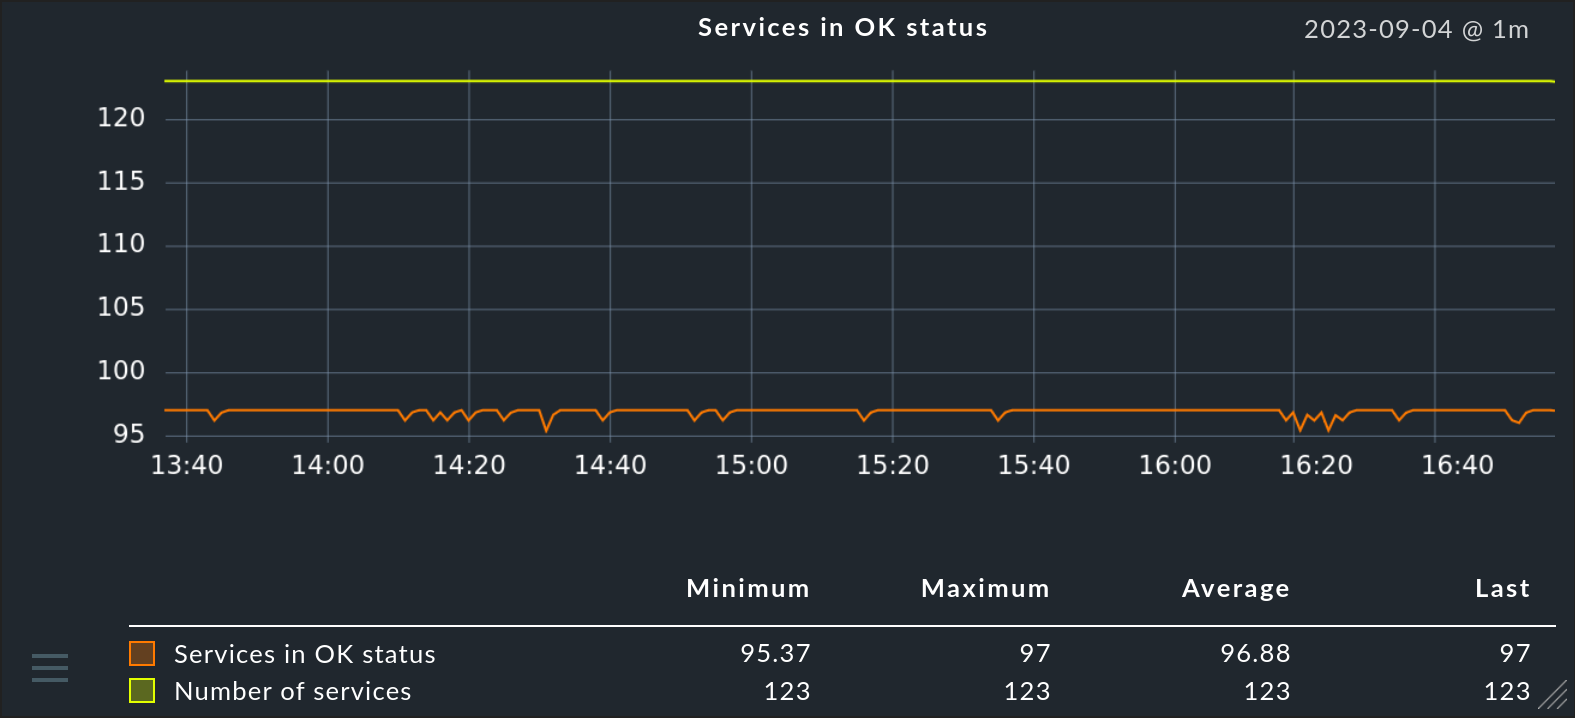
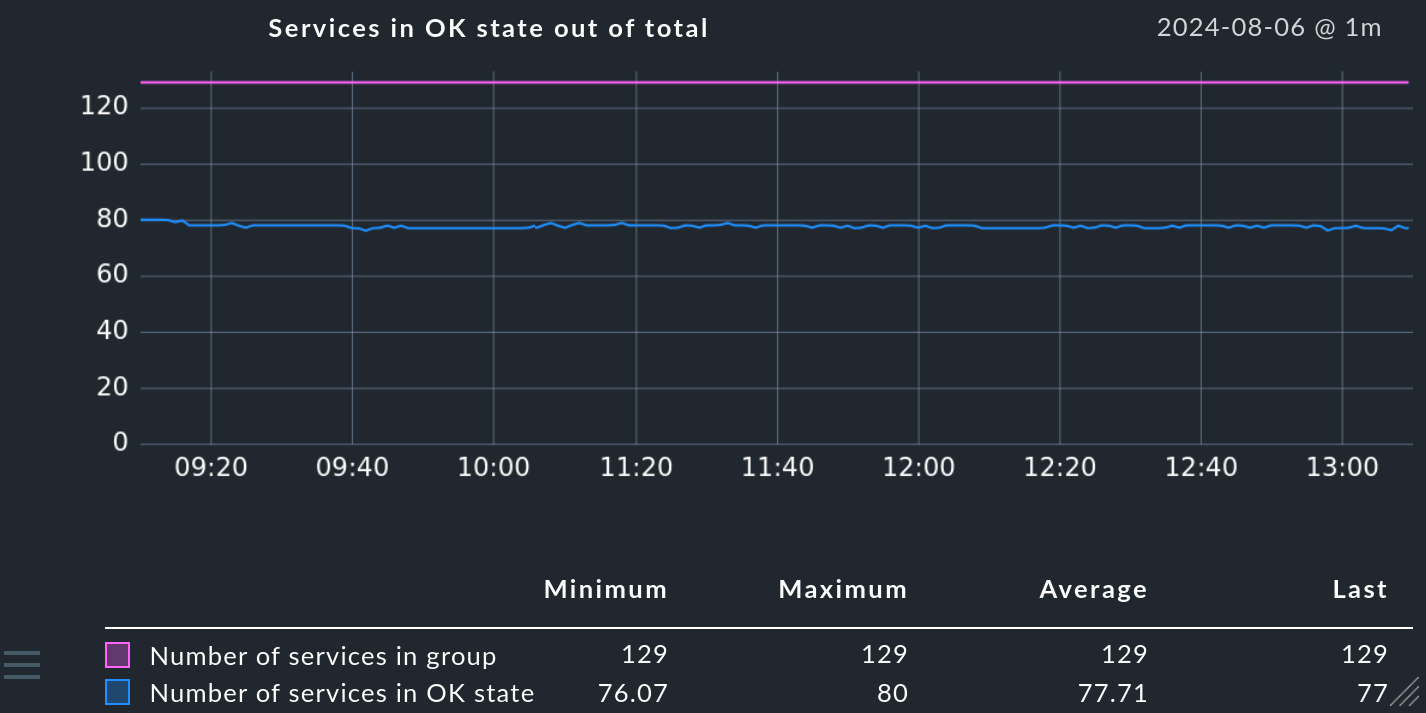
KNW-1256 - ready for review

diff --git a/examples/devel_check_plugins/graphing_myhostgroups.py b/examples/devel_check_plugins/graphing_myhostgroups.py
@@ -1,17 +1,46 @@
 #!/usr/bin/env python3
-# This file is NOT yet explained in the Checkmk User Guide, it will be soon:
-# https://docs.checkmk.com/master/en/devel_check_plugins.html
+# This file is explained in the Checkmk User Guide:
+# https://docs.checkmk.com/master/en/devel_check_plugins.html#metrics_advanced
 # 
 # Store in your Checkmk site at:
-# local/lib/python3/cmk_addons/plugins/myhostgroups/graphing/myhostgroups.py
+# ~/local/lib/python3/cmk_addons/plugins/myhostgroups/graphing/graphing_myhostgroups.py
 #
-# Do not to forget to delete the old files using the unversioned API:
-# local/share/check_mk/web/plugins/metrics/myhostgroups_advanced_metrics.py etc.
+# If you have implemented the example presented in Checkmk 2.2.0 for the unversioned API, delete the files:
+# ~/local/share/check_mk/web/plugins/metrics/myhostgroups_advanced_metrics.py.
+# ~/local/share/check_mk/web/plugins/perfometer/myhostgroups_advanced_perfometer.py
 
 from cmk.graphing.v1 import Title
 from cmk.graphing.v1.graphs import Graph, MinimalRange
 from cmk.graphing.v1.metrics import Color, DecimalNotation, Metric, Unit
 from cmk.graphing.v1.perfometers import Closed, FocusRange, Open, Perfometer
+
+metric_myhostgroups_services = Metric(
+    name = "num_services",
+    title = Title("Number of services in group"),
+    unit = Unit(DecimalNotation("")),
+    color = Color.PINK,
+)
+
+metric_myhostgroups_services_ok = Metric(
+    name = "num_services_ok",
+    title = Title("Number of services in OK state"),
+    unit = Unit(DecimalNotation("")),
+    color = Color.BLUE,
+)
+
+metric_myhostgroups_hosts = Metric(
+    name = "num_hosts",
+    title = Title("Number of hosts in group"),
+    unit = Unit(DecimalNotation("")),
+    color = Color.PINK,
+)
+
+metric_myhostgroups_hosts_up = Metric(
+    name = "num_hosts_up",
+    title = Title("Number of hosts in UP state"),
+    unit = Unit(DecimalNotation("")),
+    color = Color.YELLOW,
+)
 
 metric_myhostgroups_services_ok_perc = Metric(
     name = "services_ok_perc",
@@ -27,33 +56,6 @@ metric_myhostgroups_hosts_up_perc = Metric(
     color = Color.PURPLE,
 )
 
-metric_myhostgroups_services_ok = Metric(
-    name = "num_services_ok",
-    title = Title("Number of services in OK state"),
-    unit = Unit(DecimalNotation("")),
-    color = Color.BLUE,
-)
-
-metric_myhostgroups_hosts_up = Metric(
-    name = "num_hosts_up",
-    title = Title("Number of hosts in UP state"),
-    unit = Unit(DecimalNotation("")),
-    color = Color.YELLOW,
-)
-
-metric_myhostgroups_services = Metric(
-    name = "num_services",
-    title = Title("Number of services in group"),
-    unit = Unit(DecimalNotation("")),
-    color = Color.PINK,
-)
-
-metric_myhostgroups_hosts = Metric(
-    name = "num_hosts",
-    title = Title("Number of hosts in group"),
-    unit = Unit(DecimalNotation("")),
-    color = Color.PINK,
-)
 
 graph_myhostgroups_combined = Graph(
     name = "services_ok_comparison",
@@ -61,6 +63,7 @@ graph_myhostgroups_combined = Graph(
     simple_lines=[ "num_services", "num_services_ok" ],
     minimal_range=MinimalRange(0, 50),
 )
+
 
 perfometer_myhostgroups_advanced = Perfometer(
     name = "myhostgroups_advanced",
